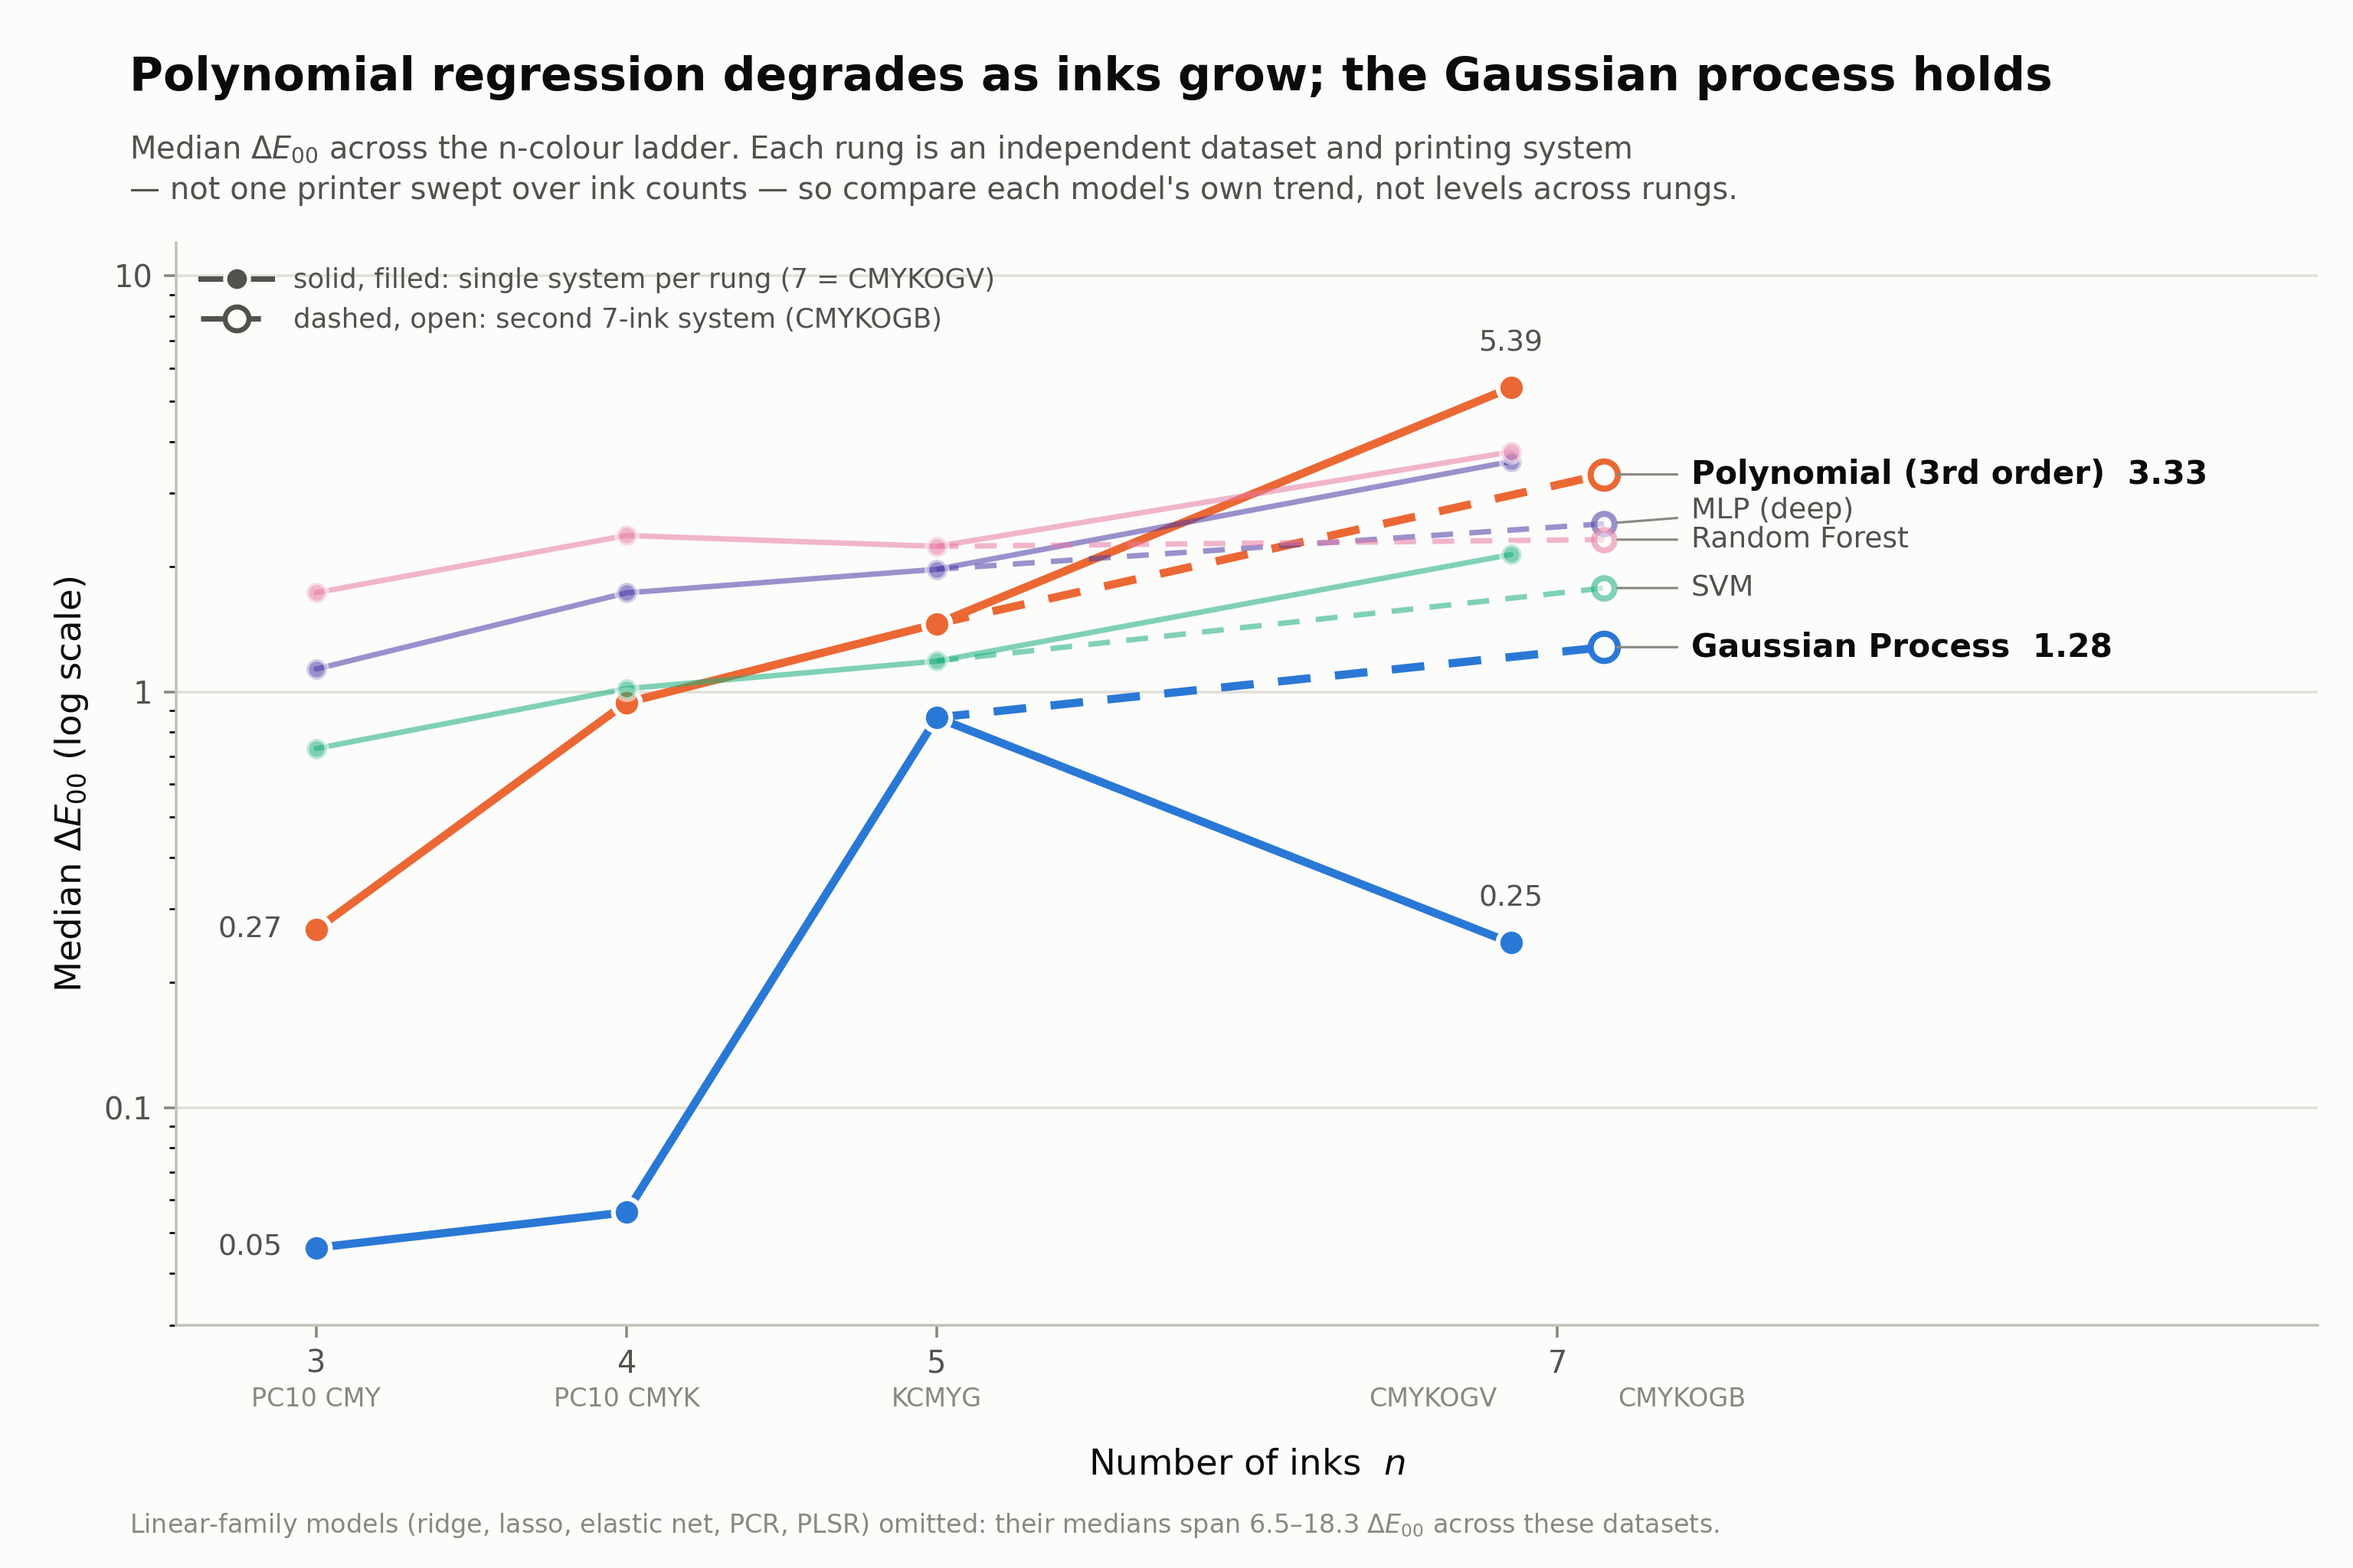
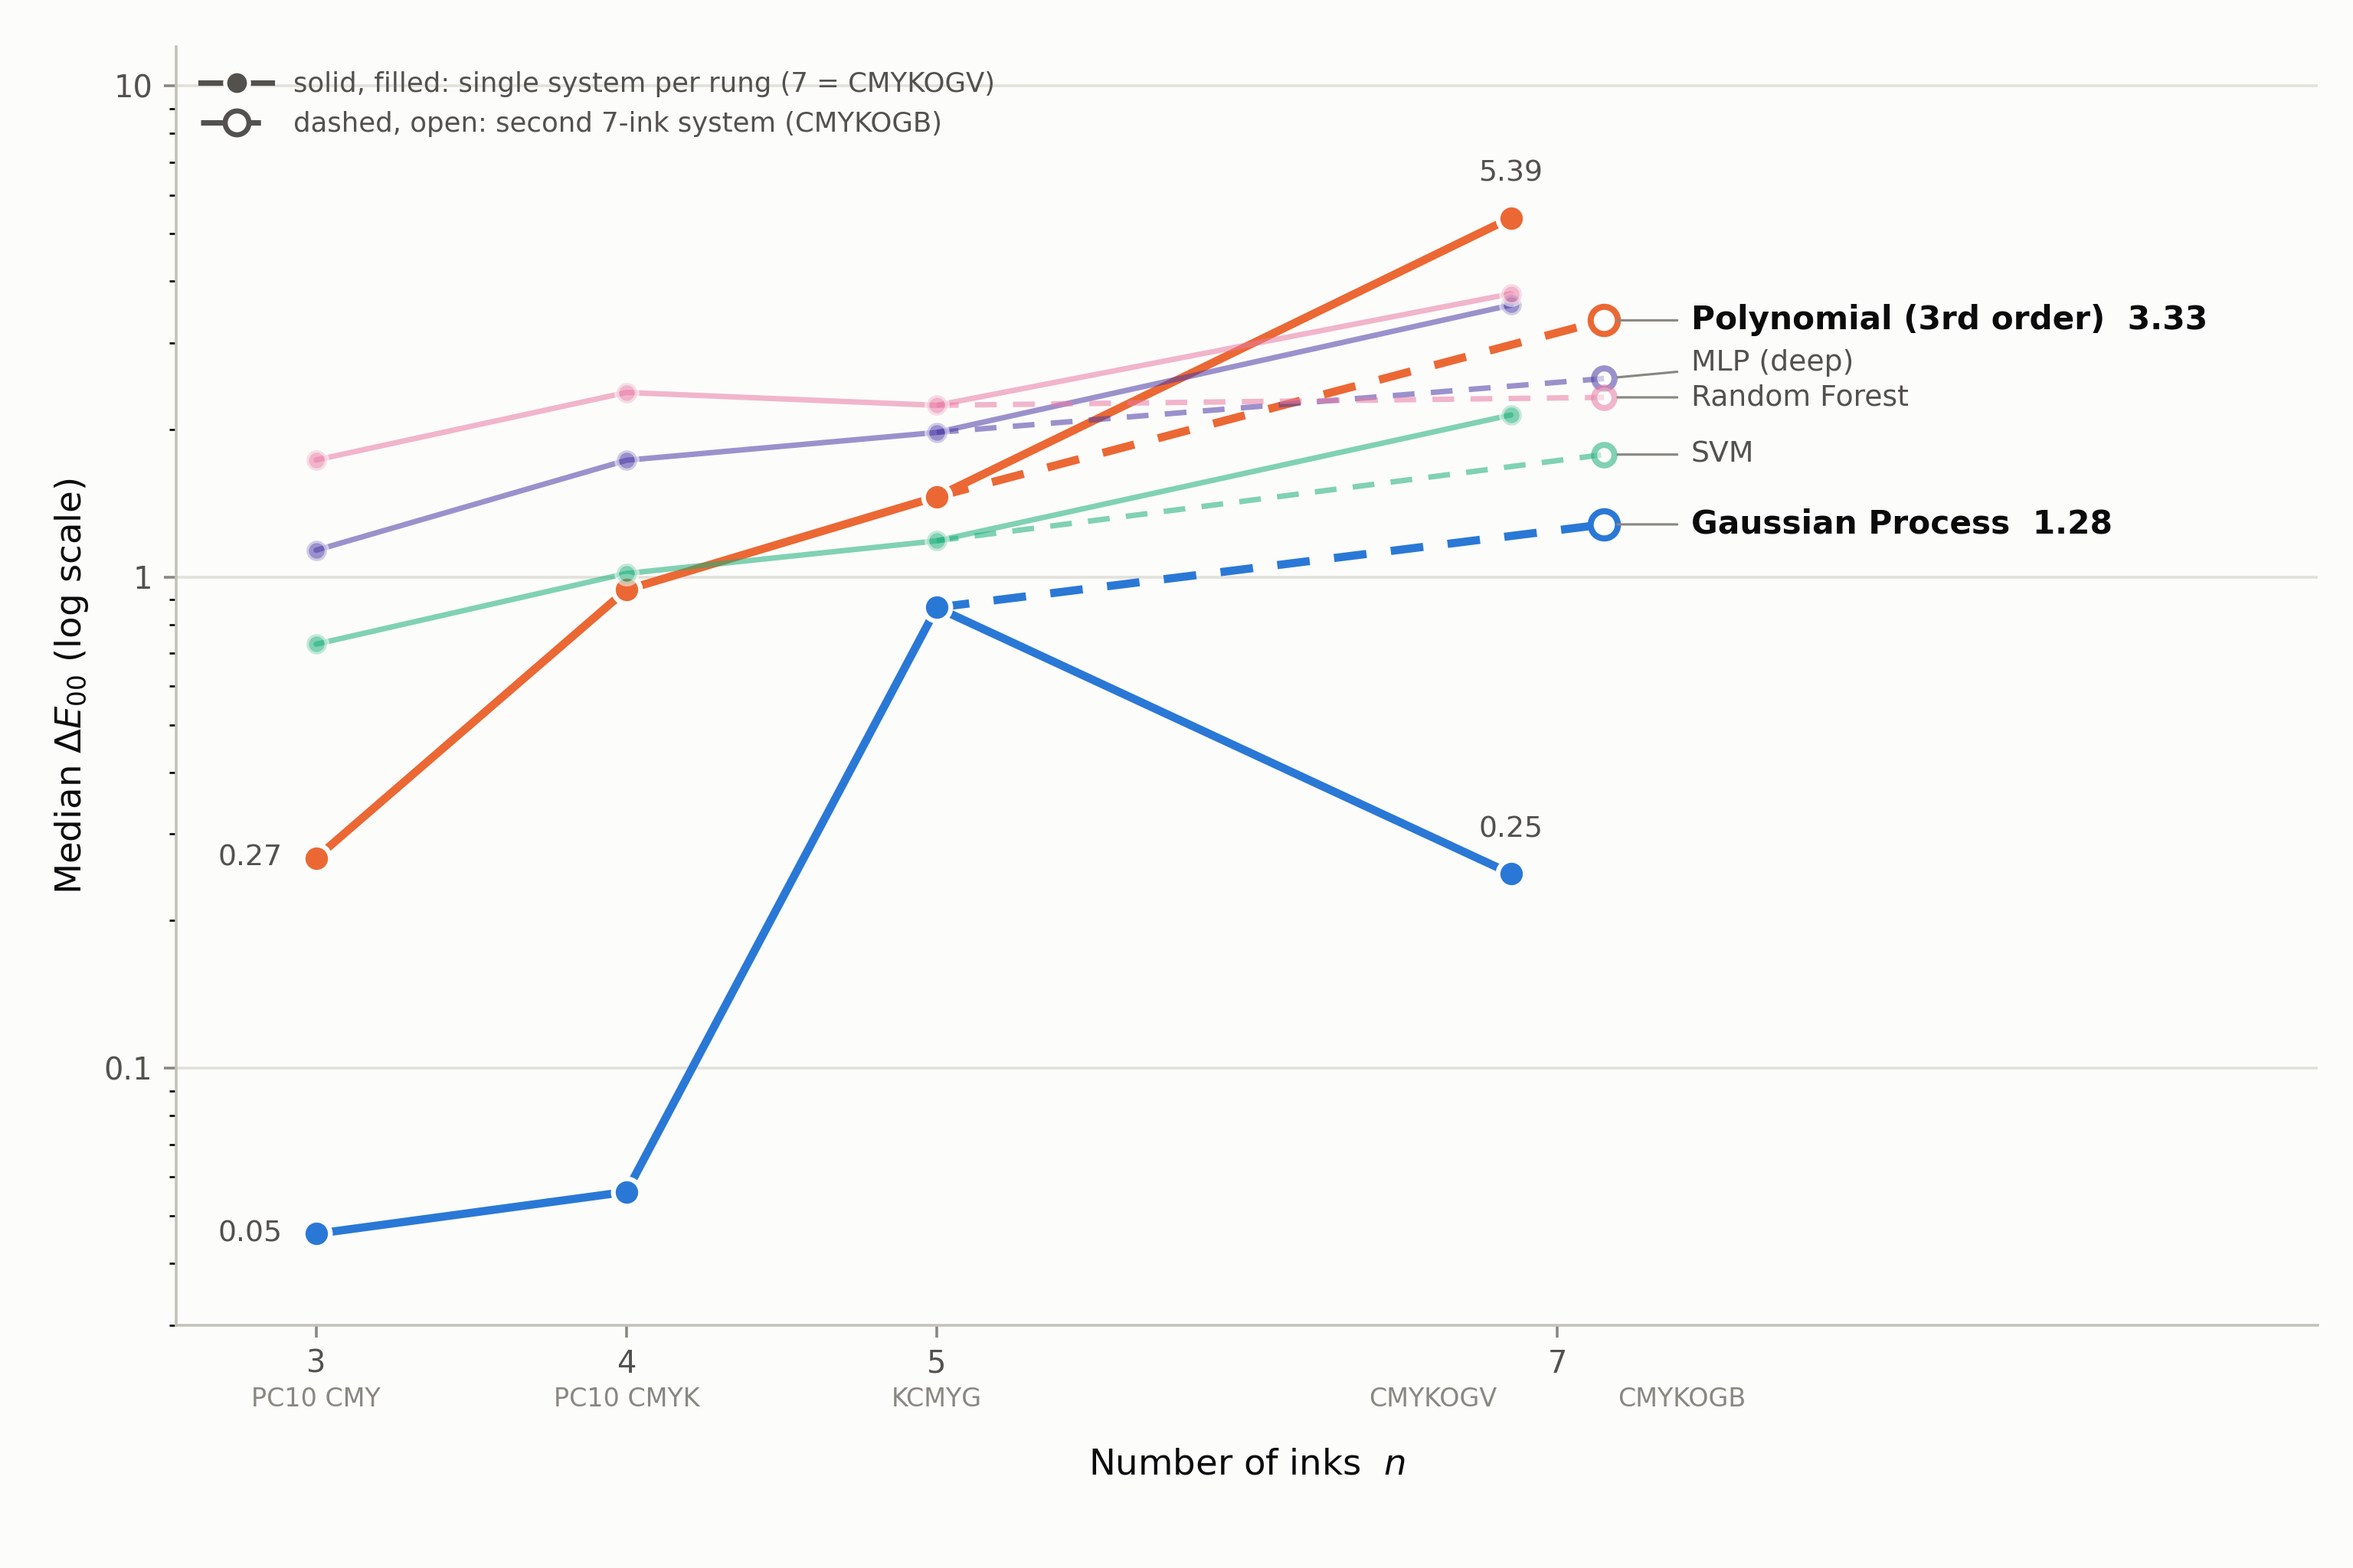
figures: strip the ladder's in-figure title, subtitle and footnote
The title asserted the uncorrected reading ('the Gaussian process holds')
that Section 4.7 rejects; the independent-rungs caveat and linear-family
omission live in the paper caption. Audit 02 figure issue 2.

diff --git a/journal/figures/fig_ncolor_ladder.py b/journal/figures/fig_ncolor_ladder.py
@@ -193,22 +193,11 @@ def make_figure(df: pd.DataFrame, lin_lo: float, lin_hi: float, out_path: str) -
     ax.legend(handles=legend_handles, loc="upper left", frameon=False,
               fontsize=8, labelcolor=INK_SECONDARY, handlelength=2.6)
 
-    # Title + honesty subtitle.
-    fig.text(0.055, 0.965,
-             "Polynomial regression degrades as inks grow; the Gaussian process holds",
-             fontsize=13.5, fontweight="bold", color=INK_PRIMARY, ha="left", va="top")
-    fig.text(0.055, 0.915,
-             "Median $\\Delta E_{00}$ across the n-colour ladder. Each rung is an independent dataset and printing system\n"
-             "— not one printer swept over ink counts — so compare each model's own trend, not levels across rungs.",
-             fontsize=9, color=INK_SECONDARY, ha="left", va="top", linespacing=1.35)
-
-    # Footnote: what was left out, with the range taken from the same CSVs.
-    fig.text(0.055, 0.018,
-             f"Linear-family models (ridge, lasso, elastic net, PCR, PLSR) omitted: their medians span "
-             f"{lin_lo:.1f}–{lin_hi:.1f} $\\Delta E_{{00}}$ across these datasets.",
-             fontsize=7.5, color=INK_MUTED, ha="left", va="bottom")
-
-    fig.subplots_adjust(left=0.075, right=0.985, top=0.845, bottom=0.155)
+    # No in-figure title, subtitle or footnote: the independent-rungs caveat and
+    # the linear-family omission are stated in the paper's caption, and the old
+    # title asserted a reading ("the Gaussian process holds") that Section 4.7's
+    # corrected comparison does not support.
+    fig.subplots_adjust(left=0.075, right=0.985, top=0.97, bottom=0.155)
     fig.savefig(out_path, dpi=320, facecolor=SURFACE)
     plt.close(fig)
     print(f"Wrote: {out_path}")
